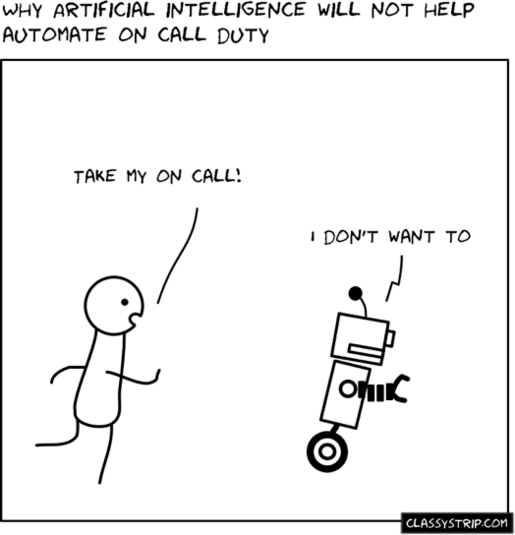
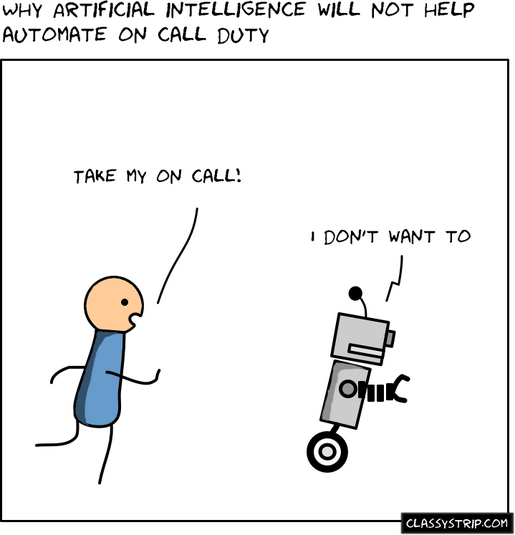
added color to comic

diff --git a/index.html b/index.html
@@ -40,7 +40,7 @@ sidebar: true
       <nav class="comic-nav">
 	<nav class="previous-comic">
 	  {% for post in site.posts limit:1 offset:1 %}
-	    <a href="{{ site.baseurl }}{{ post.url }}" class="hide-for-small"><span class="icon-arrow-left">Previous</span></a>
+	    <a href="{{ site.baseurl }}{{ post.url }}" class="hide-for-small"><span class="icon-arrow-left"></span>Previous</a>
 	    <a href="{{ site.baseurl }}{{ post.url }}" class="hide-for-large"><span class="icon-arrow-left"></span></a>
 	  {% endfor %}
 	</nav>
